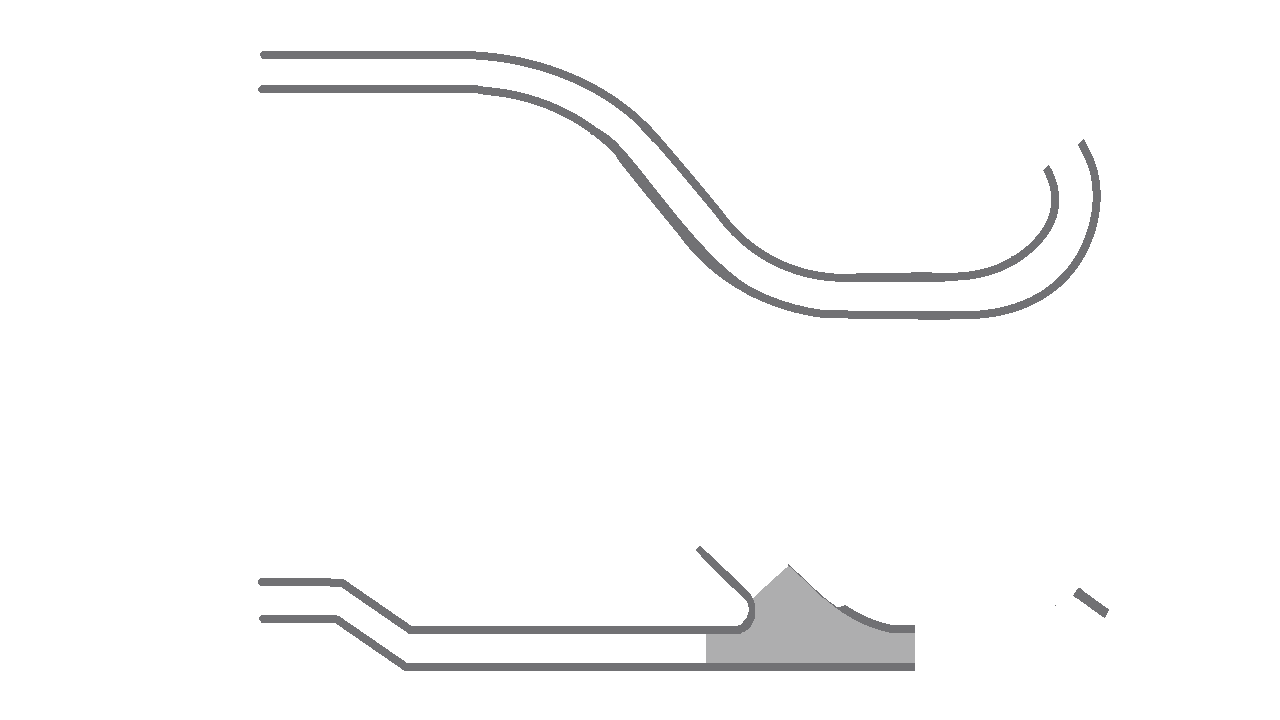
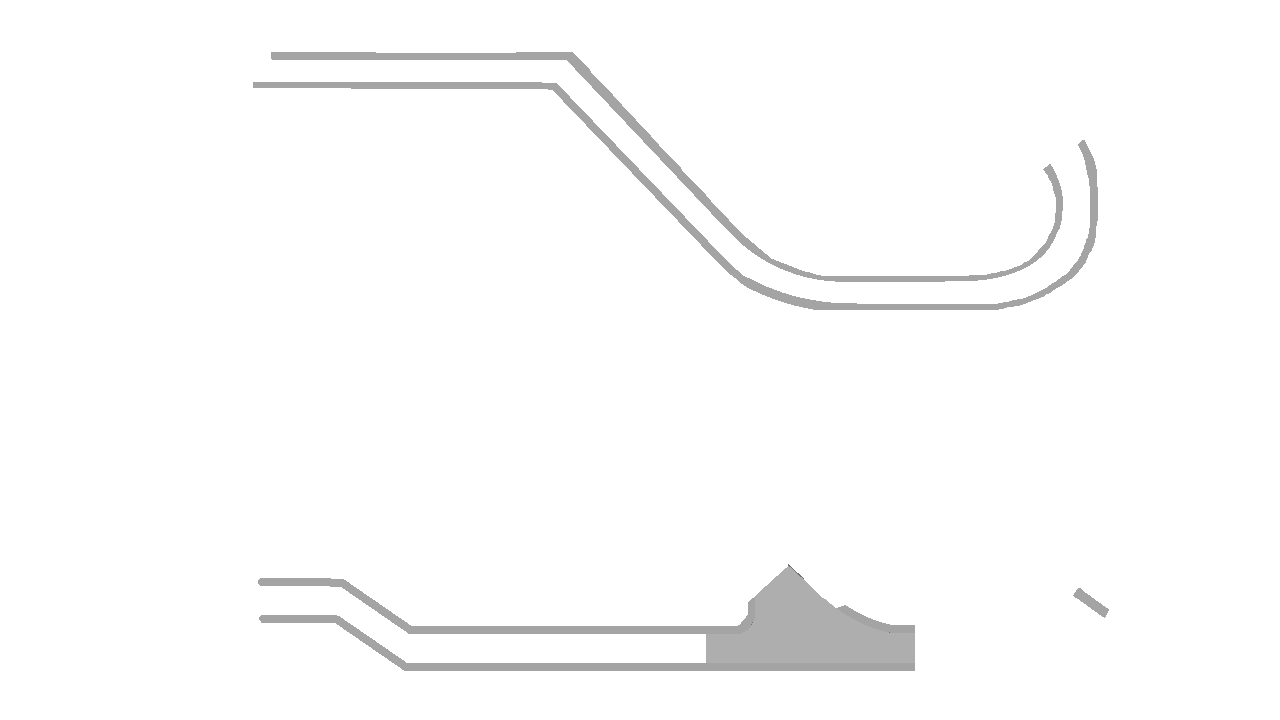
change left ramp and clearer rail visibility

diff --git a/games/pinball/source/layer.h b/games/pinball/source/layer.h
@@ -45,8 +45,8 @@ class Layer {
         };
 
         // Layer 2 shapes.
-        vector<float> m_leftInnerRail = {271.6, 50.5, 271.0, 52.2, 271.0, 54.5, 271.0, 56.9, 274.3, 57.4, 277.5, 58.0, 382.0, 58.9, 486.5, 59.9, 497.5, 61.5, 508.5, 63.1, 520.0, 65.6, 531.5, 68.2, 539.9, 70.6, 548.3, 73.1, 557.9, 76.6, 567.5, 80.2, 579.8, 86.1, 592.2, 92.0, 600.7, 97.1, 609.2, 102.3, 619.3, 109.8, 629.4, 117.3, 635.4, 123.4, 641.5, 129.5, 650.0, 138.5, 658.6, 147.5, 667.6, 158.0, 676.6, 168.5, 694.1, 189.5, 711.6, 210.5, 717.5, 218.0, 723.3, 225.5, 727.9, 230.5, 732.5, 235.5, 740.0, 242.3, 747.5, 249.2, 757.0, 255.6, 766.6, 261.9, 776.0, 266.4, 785.5, 270.8, 794.5, 273.8, 803.5, 276.8, 811.5, 278.4, 819.5, 280.0, 829.0, 281.0, 838.5, 282.0, 889.5, 282.0, 940.5, 282.0, 957.0, 280.6, 973.5, 279.2, 980.5, 277.6, 987.5, 276.0, 994.0, 273.8, 1000.5, 271.7, 1009.1, 267.4, 1017.7, 263.1, 1025.7, 257.1, 1033.7, 251.0, 1039.3, 245.0, 1044.9, 239.0, 1048.1, 234.4, 1051.2, 229.9, 1054.0, 223.7, 1056.8, 217.5, 1058.0, 211.2, 1059.3, 204.9, 1058.7, 195.7, 1058.2, 186.5, 1055.2, 178.3, 1052.2, 170.0, 1046.6, 161.5, 1041.0, 152.9, 1032.2, 143.8, 1023.5, 134.7, 1015.5, 128.7, 1007.5, 122.7, 995.5, 116.9, 983.5, 111.1, 974.0, 108.4, 964.5, 105.7, 934.8, 105.3, 905.0, 104.8, 905.0, 108.9, 905.0, 112.9, 934.3, 113.2, 963.5, 113.6, 969.5, 115.3, 975.5, 117.0, 984.9, 120.7, 994.3, 124.3, 996.1, 126.1, 998.0, 128.0, 999.3, 128.0, 1000.7, 128.0, 1008.1, 133.1, 1015.5, 138.3, 1025.0, 147.9, 1034.5, 157.6, 1039.4, 164.9, 1044.3, 172.3, 1047.3, 179.9, 1050.3, 187.5, 1050.8, 196.0, 1051.2, 204.5, 1050.1, 210.3, 1048.9, 216.0, 1045.5, 222.8, 1042.1, 229.5, 1036.1, 236.6, 1030.1, 243.8, 1022.0, 249.9, 1013.9, 256.0, 1012.4, 256.0, 1011.0, 256.0, 1002.2, 261.8, 993.5, 266.0, 983.8, 268.5, 974.0, 270.9, 963.8, 271.9, 953.5, 272.8, 905.0, 273.1, 856.5, 273.5, 842.5, 273.4, 828.5, 273.3, 818.5, 271.6, 808.5, 269.8, 796.9, 266.0, 785.3, 262.2, 777.3, 258.2, 769.4, 254.2, 760.2, 248.0, 751.0, 241.9, 742.3, 233.7, 733.7, 225.5, 726.1, 216.0, 718.6, 206.5, 704.1, 189.0, 689.6, 171.5, 672.1, 151.0, 654.6, 130.5, 645.6, 121.7, 636.5, 112.8, 625.5, 104.5, 614.5, 96.2, 605.5, 90.7, 596.5, 85.3, 588.3, 81.2, 580.1, 77.0, 571.3, 73.4, 562.5, 69.7, 552.6, 66.3, 542.7, 63.0, 531.0, 60.0, 519.2, 57.0, 506.9, 55.1, 494.5, 53.1, 482.0, 52.1, 469.5, 51.1, 372.1, 50.5, 274.8, 49.8, 273.5, 49.4, 272.3, 48.9, 271.6, 50.5};
-        vector<float> m_leftOuterRail = {831.0, 61.9, 831.0, 66.0, 847.3, 66.1, 863.5, 66.2, 914.5, 66.9, 965.5, 67.7, 976.3, 69.9, 987.1, 72.1, 996.2, 75.1, 1005.3, 78.0, 1013.8, 82.0, 1022.4, 86.1, 1032.4, 92.7, 1042.5, 99.4, 1053.0, 109.9, 1063.6, 120.5, 1069.2, 129.0, 1074.7, 137.5, 1081.3, 151.5, 1087.8, 165.5, 1089.4, 171.0, 1091.0, 176.5, 1092.0, 186.0, 1093.1, 195.5, 1092.5, 202.5, 1091.9, 209.5, 1090.3, 217.5, 1088.8, 225.5, 1085.8, 234.0, 1082.8, 242.5, 1079.7, 248.5, 1076.7, 254.5, 1072.7, 260.5, 1068.6, 266.5, 1061.6, 273.9, 1054.5, 281.2, 1048.8, 285.7, 1043.0, 290.1, 1036.8, 293.6, 1030.5, 297.2, 1022.3, 300.5, 1014.0, 303.9, 1003.8, 306.4, 993.5, 308.9, 983.7, 310.1, 973.9, 311.3, 898.2, 310.7, 822.5, 310.2, 814.5, 308.7, 806.5, 307.1, 799.6, 305.5, 792.7, 303.9, 782.1, 300.4, 771.5, 296.9, 758.5, 290.5, 745.5, 284.1, 739.5, 279.6, 733.6, 275.0, 724.7, 267.3, 715.8, 259.5, 705.1, 248.0, 694.4, 236.5, 685.9, 226.5, 677.3, 216.5, 653.8, 187.0, 630.3, 157.5, 623.3, 149.8, 616.4, 142.0, 612.4, 138.7, 608.5, 135.3, 593.0, 125.0, 577.5, 114.7, 563.5, 107.9, 549.5, 101.2, 538.5, 97.6, 527.5, 94.0, 518.5, 91.9, 509.5, 89.8, 495.0, 87.7, 480.5, 85.6, 366.7, 85.3, 253.0, 85.0, 253.0, 89.0, 253.0, 93.0, 366.7, 93.3, 480.5, 93.6, 494.6, 95.7, 508.8, 97.9, 517.6, 100.0, 526.5, 102.0, 536.0, 105.1, 545.5, 108.2, 558.7, 114.5, 571.9, 120.8, 580.7, 126.5, 589.5, 132.2, 590.3, 133.6, 591.1, 135.0, 592.2, 135.0, 593.3, 135.0, 598.9, 139.7, 604.5, 144.3, 609.8, 149.4, 615.2, 154.5, 616.6, 157.3, 618.1, 160.0, 633.9, 179.8, 649.7, 199.5, 664.1, 217.1, 678.5, 234.7, 684.9, 242.9, 691.3, 251.0, 702.5, 261.8, 713.7, 272.5, 721.6, 278.2, 729.6, 283.9, 739.1, 289.6, 748.5, 295.3, 758.0, 299.5, 767.6, 303.8, 776.5, 307.0, 785.5, 310.1, 795.0, 312.5, 804.5, 314.9, 813.4, 316.5, 822.3, 318.0, 881.9, 319.0, 941.5, 319.9, 964.0, 319.0, 986.5, 318.1, 995.0, 316.6, 1003.5, 315.1, 1012.5, 312.5, 1021.5, 309.9, 1033.5, 304.0, 1045.5, 298.1, 1054.5, 291.3, 1063.5, 284.4, 1070.6, 276.2, 1077.7, 267.9, 1082.8, 259.3, 1088.0, 250.7, 1091.9, 240.6, 1095.9, 230.5, 1098.1, 220.0, 1100.3, 209.5, 1100.3, 196.0, 1100.3, 182.5, 1098.7, 175.5, 1097.1, 168.5, 1095.2, 163.0, 1093.2, 157.5, 1086.1, 143.0, 1079.0, 128.5, 1072.6, 120.0, 1066.2, 111.5, 1056.4, 102.0, 1046.5, 92.4, 1037.1, 86.2, 1027.7, 79.9, 1018.6, 75.5, 1009.5, 71.2, 1000.6, 68.1, 991.7, 65.0, 979.6, 62.5, 967.5, 60.1, 956.5, 59.6, 945.5, 59.0, 888.3, 58.4, 831.0, 57.9, 831.0, 61.9};
+        vector<float> m_leftInnerRail = {271.4, 52.4, 270.9, 53.8, 271.2, 56.7, 271.5, 59.5, 419.0, 59.8, 566.5, 60.0, 644.8, 142.9, 723.0, 225.7, 734.8, 237.1, 746.5, 248.6, 756.6, 255.3, 766.6, 261.9, 776.0, 266.4, 785.5, 270.8, 793.4, 273.5, 801.3, 276.1, 809.9, 278.0, 818.5, 279.9, 830.5, 281.1, 842.5, 282.3, 908.5, 281.7, 974.5, 281.1, 983.5, 280.0, 992.5, 278.8, 1001.6, 276.5, 1010.6, 274.2, 1018.3, 271.0, 1025.9, 267.8, 1032.2, 263.8, 1038.5, 259.7, 1044.1, 253.9, 1049.8, 248.0, 1054.8, 237.8, 1059.9, 227.5, 1061.1, 223.0, 1062.3, 218.5, 1062.4, 205.0, 1062.5, 191.5, 1059.4, 182.8, 1056.3, 174.1, 1050.5, 163.8, 1044.7, 153.5, 1040.4, 147.4, 1036.2, 141.4, 1030.2, 135.9, 1024.3, 130.4, 1018.6, 126.6, 1012.9, 122.9, 1005.2, 119.0, 997.4, 115.1, 988.2, 112.1, 979.1, 109.1, 968.5, 107.0, 957.9, 105.0, 931.4, 105.0, 905.0, 105.0, 905.0, 108.9, 905.0, 112.9, 934.3, 113.2, 963.5, 113.6, 969.5, 115.3, 975.5, 117.0, 984.9, 120.7, 994.3, 124.3, 996.1, 126.1, 998.0, 128.0, 999.3, 128.0, 1000.7, 128.0, 1008.1, 133.1, 1015.5, 138.3, 1025.0, 147.9, 1034.5, 157.6, 1039.4, 164.9, 1044.3, 172.3, 1047.3, 179.9, 1050.3, 187.5, 1050.8, 196.0, 1051.2, 204.5, 1050.1, 210.3, 1048.9, 216.0, 1045.5, 222.8, 1042.1, 229.5, 1036.1, 236.6, 1030.1, 243.8, 1022.0, 249.9, 1013.9, 256.0, 1012.4, 256.0, 1011.0, 256.0, 1002.2, 261.8, 993.5, 266.0, 983.8, 268.5, 974.0, 270.9, 963.8, 271.9, 953.5, 272.8, 905.0, 273.1, 856.5, 273.5, 842.5, 273.4, 828.5, 273.3, 818.5, 271.6, 808.5, 269.8, 796.9, 266.0, 785.3, 262.2, 777.3, 258.2, 769.4, 254.2, 760.2, 248.0, 751.0, 241.9, 742.3, 233.7, 733.7, 225.5, 726.1, 216.0, 718.6, 206.5, 706.6, 192.0, 694.6, 177.5, 678.3, 158.3, 662.0, 139.1, 662.0, 137.8, 662.0, 136.4, 650.8, 125.3, 639.5, 114.2, 617.2, 92.8, 594.8, 71.5, 584.2, 61.5, 573.5, 51.4, 532.0, 52.3, 490.5, 53.1, 481.3, 52.1, 472.2, 51.0, 372.0, 51.0, 271.9, 51.0, 271.4, 52.4};
+        vector<float> m_leftOuterRail = {831.0, 61.9, 831.0, 66.0, 847.3, 66.1, 863.5, 66.2, 914.5, 66.9, 965.5, 67.7, 976.3, 69.9, 987.1, 72.1, 996.2, 75.1, 1005.3, 78.0, 1013.8, 82.0, 1022.4, 86.1, 1032.4, 92.7, 1042.5, 99.4, 1053.0, 109.9, 1063.6, 120.5, 1069.2, 129.0, 1074.8, 137.5, 1079.4, 147.6, 1084.0, 157.7, 1086.1, 167.6, 1088.2, 177.5, 1089.0, 182.5, 1089.9, 187.5, 1089.9, 206.6, 1090.0, 225.6, 1088.9, 231.6, 1087.8, 237.5, 1087.1, 238.5, 1086.4, 239.5, 1085.0, 244.0, 1083.7, 248.5, 1081.0, 254.0, 1078.3, 259.6, 1072.6, 266.8, 1066.8, 273.9, 1063.7, 275.9, 1060.5, 277.8, 1053.0, 283.1, 1045.5, 288.3, 1035.5, 293.1, 1025.4, 298.0, 1017.5, 299.6, 1009.5, 301.2, 1002.5, 302.6, 995.5, 304.0, 930.0, 304.0, 864.5, 303.9, 844.5, 303.0, 824.5, 302.1, 811.0, 299.6, 797.5, 297.1, 789.5, 294.6, 781.5, 292.2, 773.5, 289.2, 765.5, 286.2, 754.0, 280.6, 742.5, 275.1, 734.0, 267.2, 725.5, 259.3, 641.2, 171.3, 556.9, 83.3, 545.7, 82.7, 534.5, 82.0, 393.8, 82.0, 253.0, 82.0, 253.0, 87.5, 253.0, 93.0, 364.5, 93.0, 475.9, 93.0, 480.8, 94.1, 485.8, 95.1, 492.1, 95.2, 498.5, 95.2, 509.4, 94.1, 520.2, 93.1, 515.3, 90.9, 509.5, 89.5, 516.0, 89.2, 522.5, 88.8, 537.6, 89.5, 552.7, 90.2, 644.6, 186.1, 736.4, 282.0, 744.0, 285.5, 749.8, 289.0, 761.1, 293.9, 772.5, 298.8, 782.5, 301.9, 792.4, 305.1, 803.5, 307.6, 814.5, 310.1, 836.0, 311.0, 857.5, 312.0, 918.5, 312.2, 979.5, 312.4, 980.7, 313.3, 981.9, 314.2, 989.2, 313.8, 996.5, 313.4, 1001.0, 312.2, 1005.5, 311.1, 1014.1, 309.6, 1022.6, 308.0, 1040.6, 300.4, 1058.5, 292.7, 1064.0, 288.4, 1069.5, 284.2, 1074.5, 278.8, 1079.6, 273.5, 1083.6, 268.5, 1087.6, 263.5, 1090.7, 259.0, 1093.7, 254.5, 1096.7, 248.5, 1099.7, 242.5, 1100.9, 237.2, 1102.0, 231.9, 1102.0, 222.9, 1102.0, 213.8, 1100.2, 213.3, 1098.3, 212.8, 1097.6, 191.7, 1096.9, 170.5, 1095.4, 164.8, 1093.9, 159.0, 1086.5, 143.8, 1079.0, 128.5, 1072.6, 120.0, 1066.2, 111.5, 1056.4, 102.0, 1046.5, 92.4, 1037.1, 86.2, 1027.7, 79.9, 1018.6, 75.5, 1009.5, 71.2, 1000.6, 68.1, 991.7, 65.0, 979.6, 62.5, 967.5, 60.1, 956.5, 59.6, 945.5, 59.0, 888.3, 58.4, 831.0, 57.9, 831.0, 61.9};
         vector<float> m_rightOuterRail = {1063.5, 595.1, 1057.7, 603.1, 1047.0, 613.4, 1036.3, 623.7, 1024.9, 631.3, 1013.5, 638.9, 1002.9, 643.9, 992.4, 649.0, 980.4, 652.9, 968.5, 656.8, 957.5, 658.9, 946.5, 661.0, 937.5, 662.0, 928.5, 663.0, 667.8, 663.0, 407.2, 663.0, 372.8, 639.2, 338.5, 615.5, 309.9, 615.2, 281.3, 614.9, 280.6, 617.2, 280.0, 619.5, 280.0, 621.2, 280.0, 623.0, 307.5, 623.0, 335.1, 623.0, 369.8, 647.0, 404.5, 671.0, 667.0, 671.0, 929.5, 671.0, 938.5, 670.0, 947.5, 669.0, 958.5, 666.9, 969.5, 664.8, 983.0, 660.4, 996.5, 656.0, 1007.5, 650.6, 1018.5, 645.2, 1027.5, 639.3, 1036.5, 633.3, 1043.0, 628.0, 1049.5, 622.6, 1056.9, 615.1, 1064.2, 607.5, 1070.1, 599.7, 1076.0, 591.9, 1072.7, 588.8, 1069.4, 587.2, 1063.5, 595.1};
         vector<float> m_rightInnerRail = {660.8, 433.7, 655.4, 437.5, 627.7, 457.4, 600.0, 477.3, 599.5, 479.1, 598.9, 480.9, 600.0, 482.9, 601.0, 484.9, 633.1, 529.2, 665.2, 573.5, 666.8, 574.7, 668.4, 576.0, 669.7, 576.0, 671.0, 576.0, 681.8, 568.6, 692.7, 561.2, 695.5, 559.7, 698.4, 558.2, 720.7, 579.9, 742.9, 601.5, 745.5, 602.4, 748.0, 603.4, 748.0, 608.4, 748.0, 613.5, 744.9, 618.8, 741.9, 624.1, 739.4, 625.0, 736.9, 626.0, 574.2, 626.0, 411.5, 626.0, 378.0, 602.8, 344.5, 579.6, 336.5, 578.9, 328.5, 578.2, 287.8, 578.1, 247.0, 578.0, 247.0, 581.9, 247.0, 585.8, 293.8, 586.2, 340.5, 586.5, 374.8, 610.3, 409.1, 634.0, 574.5, 634.0, 739.9, 634.0, 743.7, 631.9, 747.5, 629.8, 748.8, 628.7, 750.2, 627.6, 752.6, 622.8, 755.0, 618.1, 755.0, 611.9, 755.0, 605.7, 752.8, 599.8, 750.7, 593.9, 730.1, 574.1, 709.5, 554.3, 704.2, 549.6, 698.9, 545.0, 696.7, 545.0, 694.5, 545.0, 682.5, 554.9, 670.5, 564.8, 669.9, 564.1, 669.2, 563.5, 640.1, 523.2, 611.0, 483.0, 610.7, 482.1, 610.5, 481.2, 638.5, 461.0, 666.5, 440.8, 667.6, 440.4, 668.6, 439.9, 713.5, 462.0, 758.4, 484.1, 752.5, 498.0, 745.9, 511.1, 738.9, 504.8, 731.8, 498.5, 726.8, 494.2, 721.8, 490.0, 720.0, 490.0, 718.1, 490.0, 716.6, 491.6, 715.0, 493.1, 715.0, 494.9, 715.0, 496.7, 740.8, 519.5, 766.5, 542.4, 795.1, 570.4, 823.7, 598.5, 829.6, 603.1, 835.5, 607.7, 841.6, 611.8, 847.6, 615.9, 856.1, 620.4, 864.5, 624.9, 875.5, 628.7, 886.5, 632.5, 909.9, 632.8, 933.4, 633.1, 939.9, 632.0, 946.5, 630.9, 956.6, 627.5, 966.8, 624.1, 976.1, 619.4, 985.5, 614.7, 995.9, 607.7, 1006.3, 600.6, 1017.8, 589.6, 1029.3, 578.5, 1034.2, 572.6, 1039.1, 566.8, 1035.8, 564.5, 1032.5, 562.2, 1029.6, 565.9, 1026.7, 569.5, 1015.6, 580.6, 1004.5, 591.6, 997.0, 597.2, 989.4, 602.8, 983.0, 606.9, 976.5, 611.0, 972.5, 612.9, 968.5, 614.9, 958.5, 618.6, 948.5, 622.3, 942.3, 624.6, 936.1, 626.9, 935.5, 626.0, 934.9, 625.0, 913.1, 625.0, 891.2, 625.0, 882.4, 622.4, 873.5, 619.9, 864.1, 615.4, 854.7, 611.0, 846.4, 605.5, 838.2, 600.0, 827.3, 589.3, 816.4, 578.5, 813.0, 574.5, 809.5, 570.5, 803.8, 566.5, 798.2, 562.6, 797.7, 560.0, 797.1, 557.5, 775.1, 537.6, 753.0, 517.7, 761.5, 499.9, 770.1, 482.8, 769.5, 481.1, 769.0, 479.3, 718.7, 454.6, 668.5, 429.9, 667.4, 430.0, 666.3, 430.0, 660.8, 433.7};
         vector<vector<float>> m_layer2ShapeData = {
